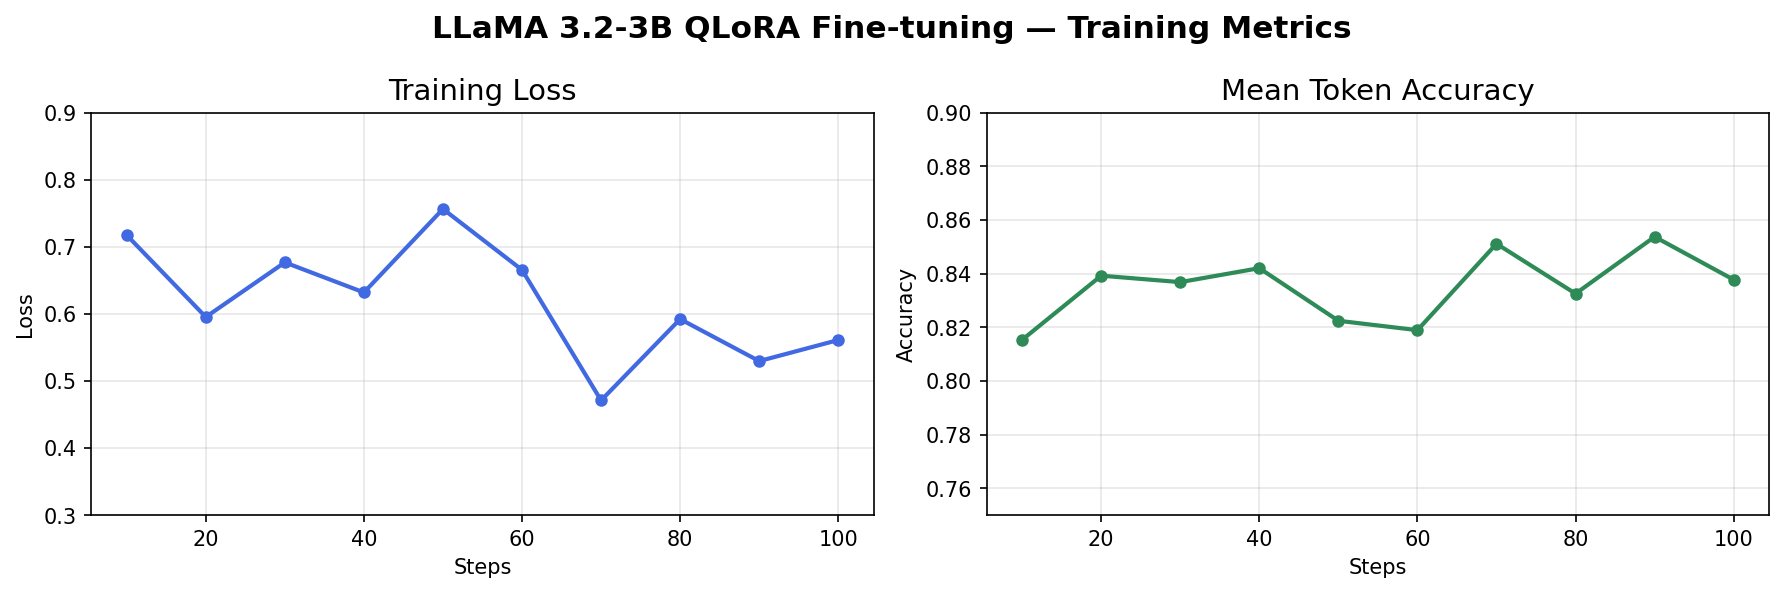
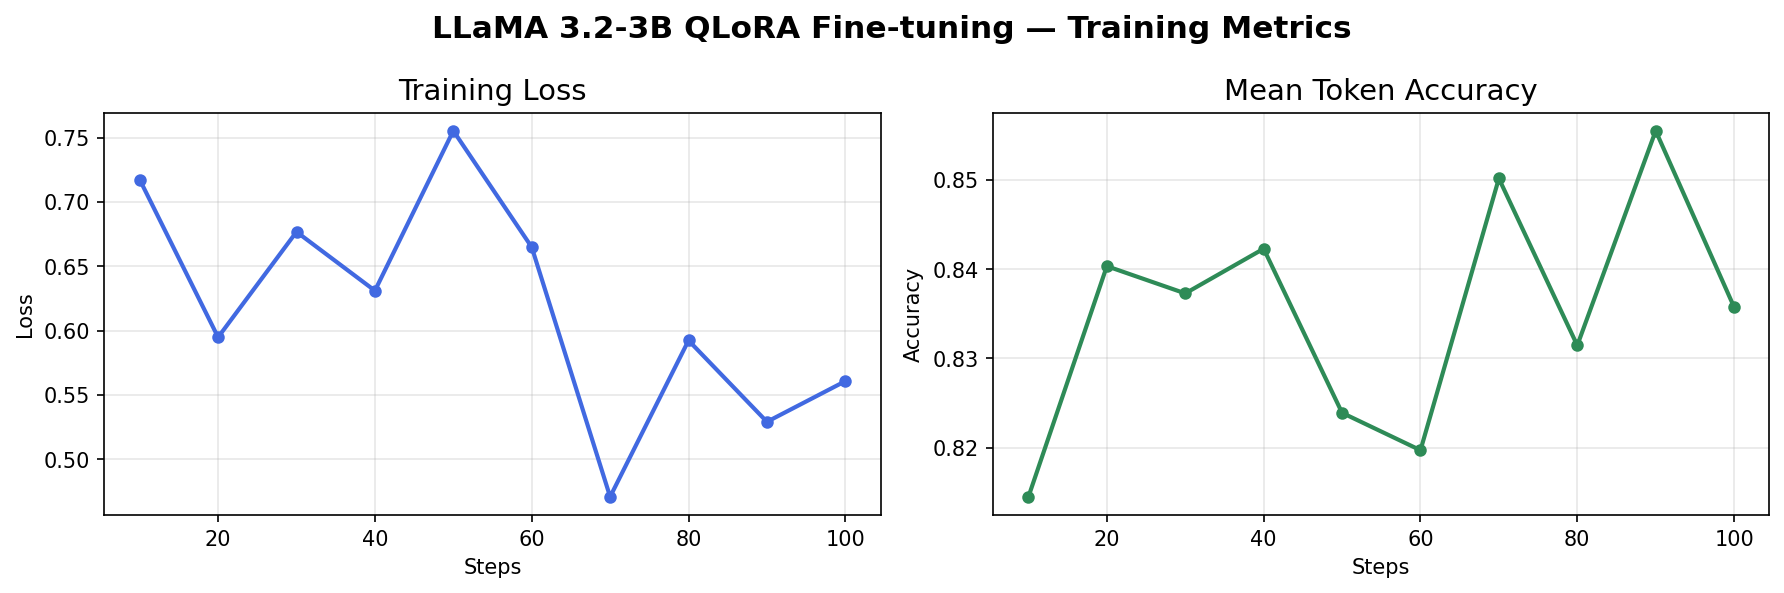
adding the plot2

diff --git a/train.py b/train.py
@@ -1,4 +1,6 @@
 import torch
+import json
+import transformers
 from datasets import load_dataset
 from transformers import (
     AutoModelForCausalLM,
@@ -105,6 +107,32 @@ for i in range(3):
     print(f"PROMPT:\n{dataset[i]['prompt']}")
     print(f"COMPLETION:\n{dataset[i]['completion']}")
     print("-" * 50)
+
+
+# Track metrics
+metrics_log = []
+
+class MetricsCallback(transformers.TrainerCallback):
+    def on_log(self, args, state, control, logs=None, **kwargs):
+        if logs:
+            metrics_log.append({
+                "step": state.global_step,
+                "loss": logs.get("loss"),
+                "grad_norm": logs.get("grad_norm"),
+                "learning_rate": logs.get("learning_rate"),
+                "entropy": logs.get("entropy"),
+                "mean_token_accuracy": logs.get("mean_token_accuracy"),
+            })
+            # Save to file after every log
+            with open("training_metrics.json", "w") as f:
+                json.dump(metrics_log, f, indent=2)
+
+trainer = SFTTrainer(
+    model=model,
+    train_dataset=dataset,
+    args=sft_config,
+    callbacks=[MetricsCallback()]  # ← add this
+)
 
 # Start training
 print("Starting training...")

diff --git a/plot_loss.py b/plot_loss.py
@@ -1,9 +1,17 @@
+import json
 import matplotlib.pyplot as plt
 
-# Loss values from training logs (every 10 steps)
-steps = [10, 20, 30, 40, 50, 60, 70, 80, 90, 100]
-loss =  [0.7172, 0.5952, 0.6766, 0.6318, 0.7562, 0.6654, 0.4709, 0.5921, 0.5295, 0.5609]
-accuracy = [0.8153, 0.8392, 0.8368, 0.842, 0.8224, 0.8189, 0.8511, 0.8325, 0.8537, 0.8377]
+# Load metrics from file
+# Load metrics from file
+with open("training_metrics.json", "r") as f:
+    metrics = json.load(f)
+
+# Filter out entries where loss or accuracy is None
+filtered = [m for m in metrics if m["loss"] is not None and m["mean_token_accuracy"] is not None]
+
+steps =    [m["step"] for m in filtered]
+loss =     [m["loss"] for m in filtered]
+accuracy = [m["mean_token_accuracy"] for m in filtered]
 
 fig, (ax1, ax2) = plt.subplots(1, 2, figsize=(12, 4))
 
@@ -13,7 +21,6 @@ ax1.set_title('Training Loss', fontsize=14)
 ax1.set_xlabel('Steps')
 ax1.set_ylabel('Loss')
 ax1.grid(True, alpha=0.3)
-ax1.set_ylim(0.3, 0.9)
 
 # Accuracy plot
 ax2.plot(steps, accuracy, marker='o', color='seagreen', linewidth=2, markersize=5)
@@ -21,7 +28,6 @@ ax2.set_title('Mean Token Accuracy', fontsize=14)
 ax2.set_xlabel('Steps')
 ax2.set_ylabel('Accuracy')
 ax2.grid(True, alpha=0.3)
-ax2.set_ylim(0.75, 0.90)
 
 plt.suptitle('LLaMA 3.2-3B QLoRA Fine-tuning — Training Metrics', fontsize=15, fontweight='bold')
 plt.tight_layout()